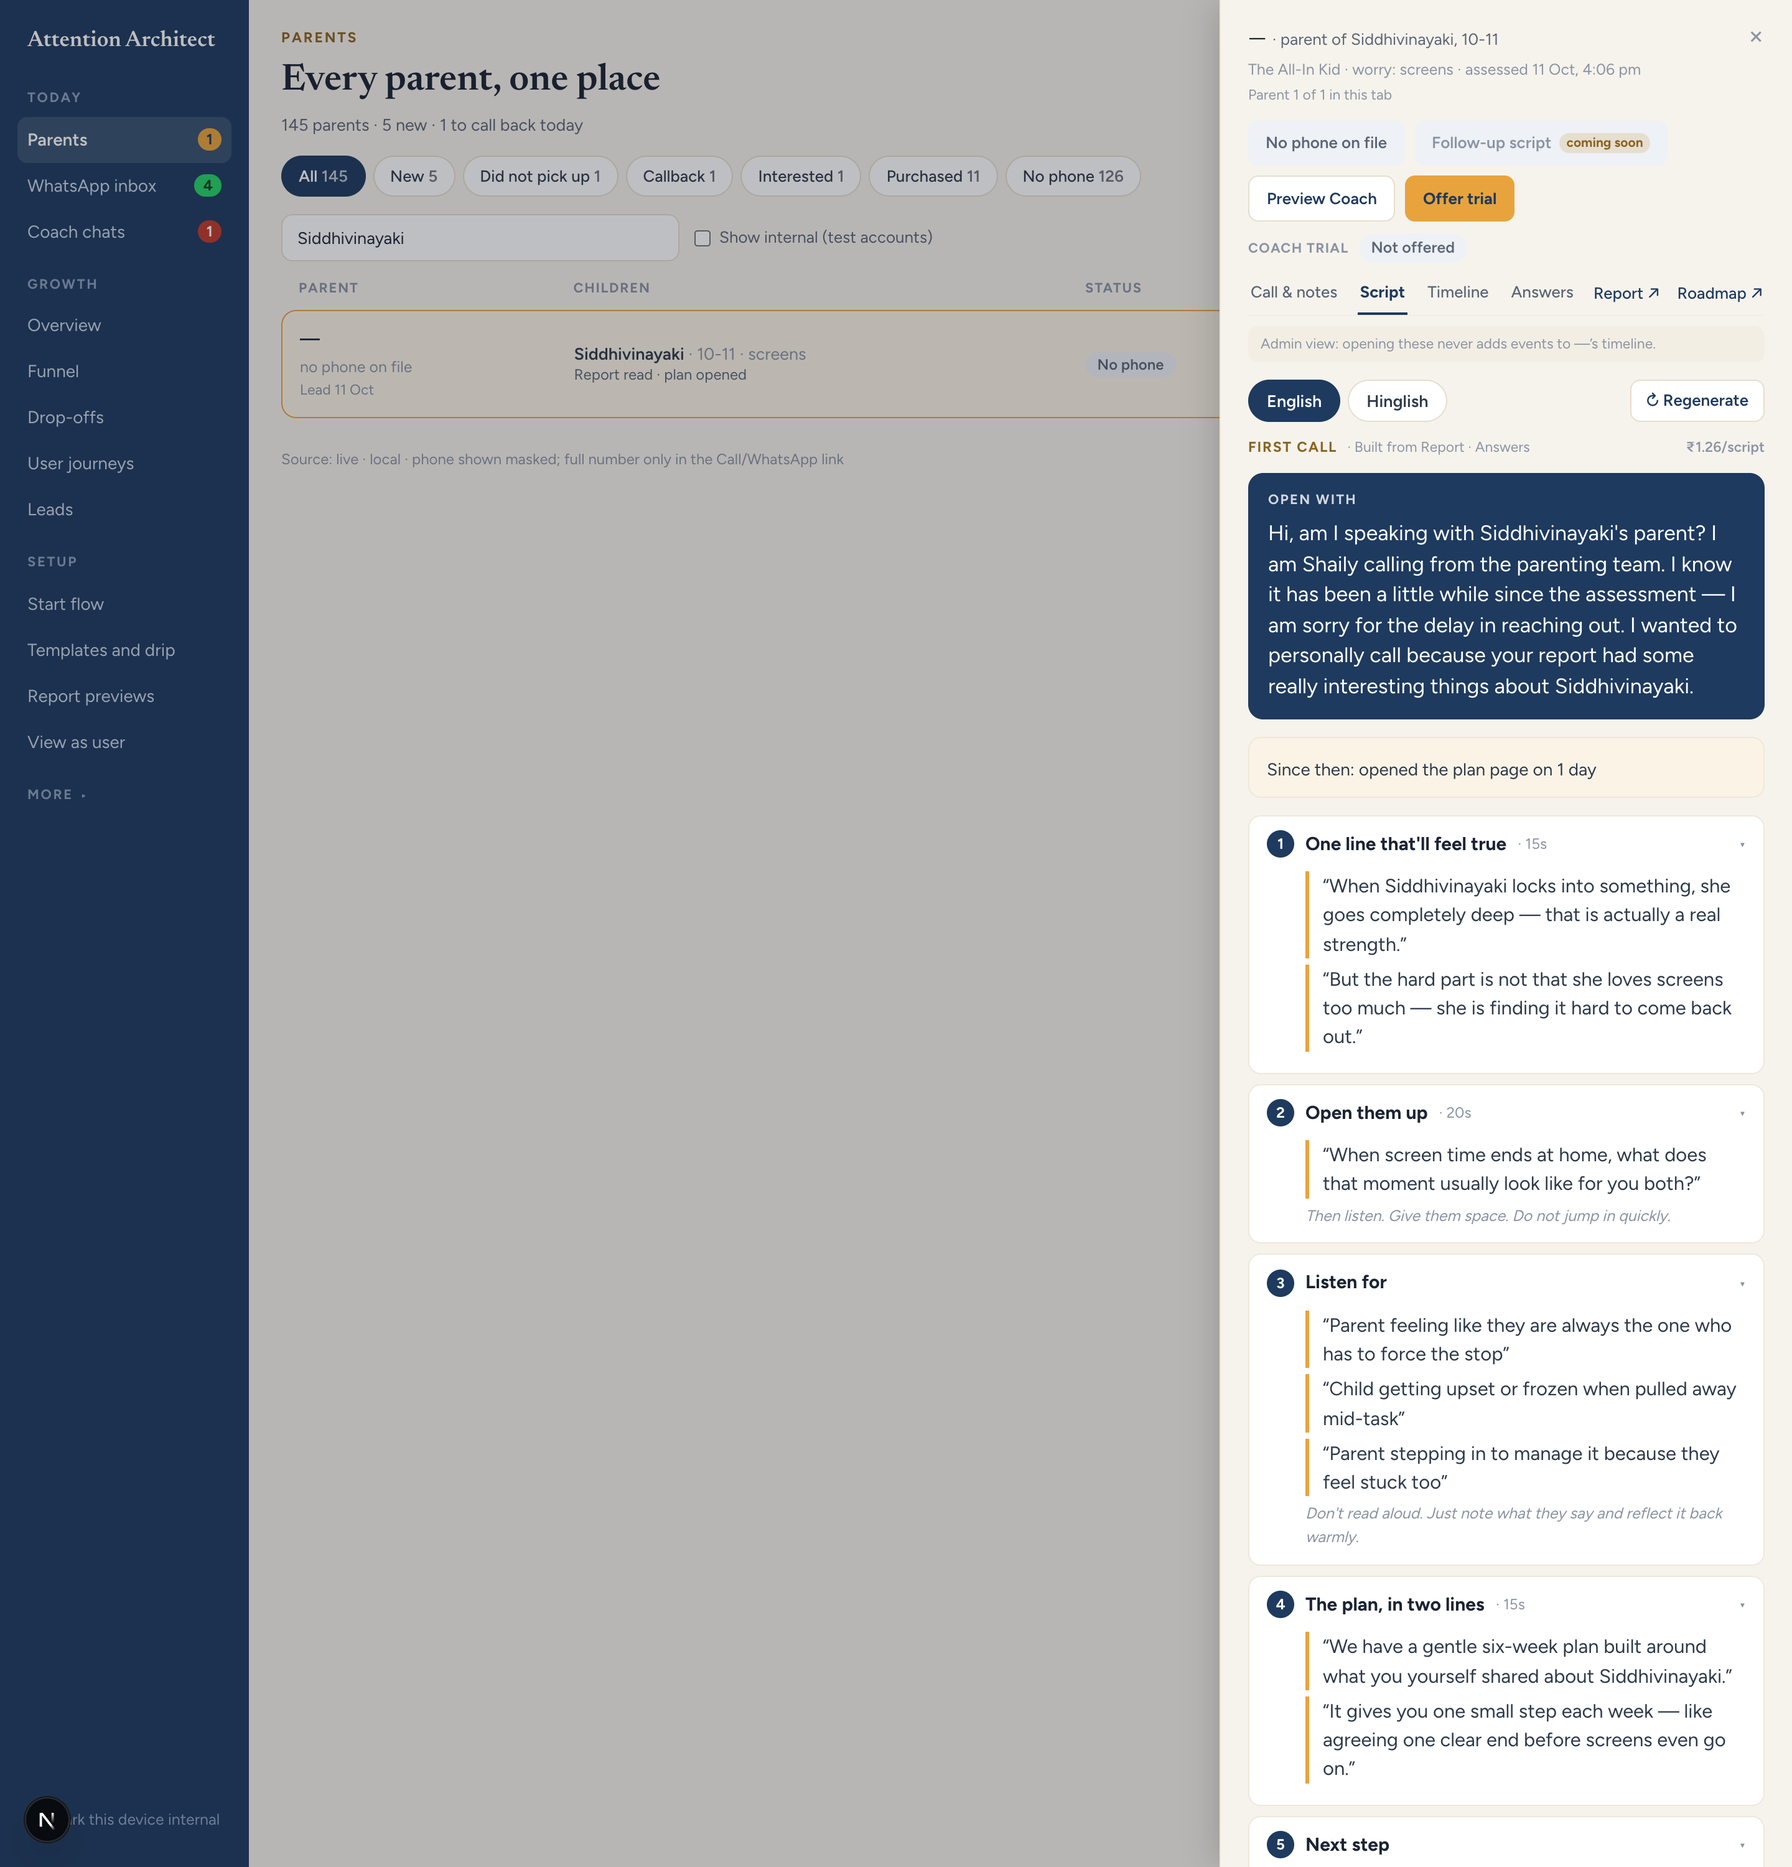
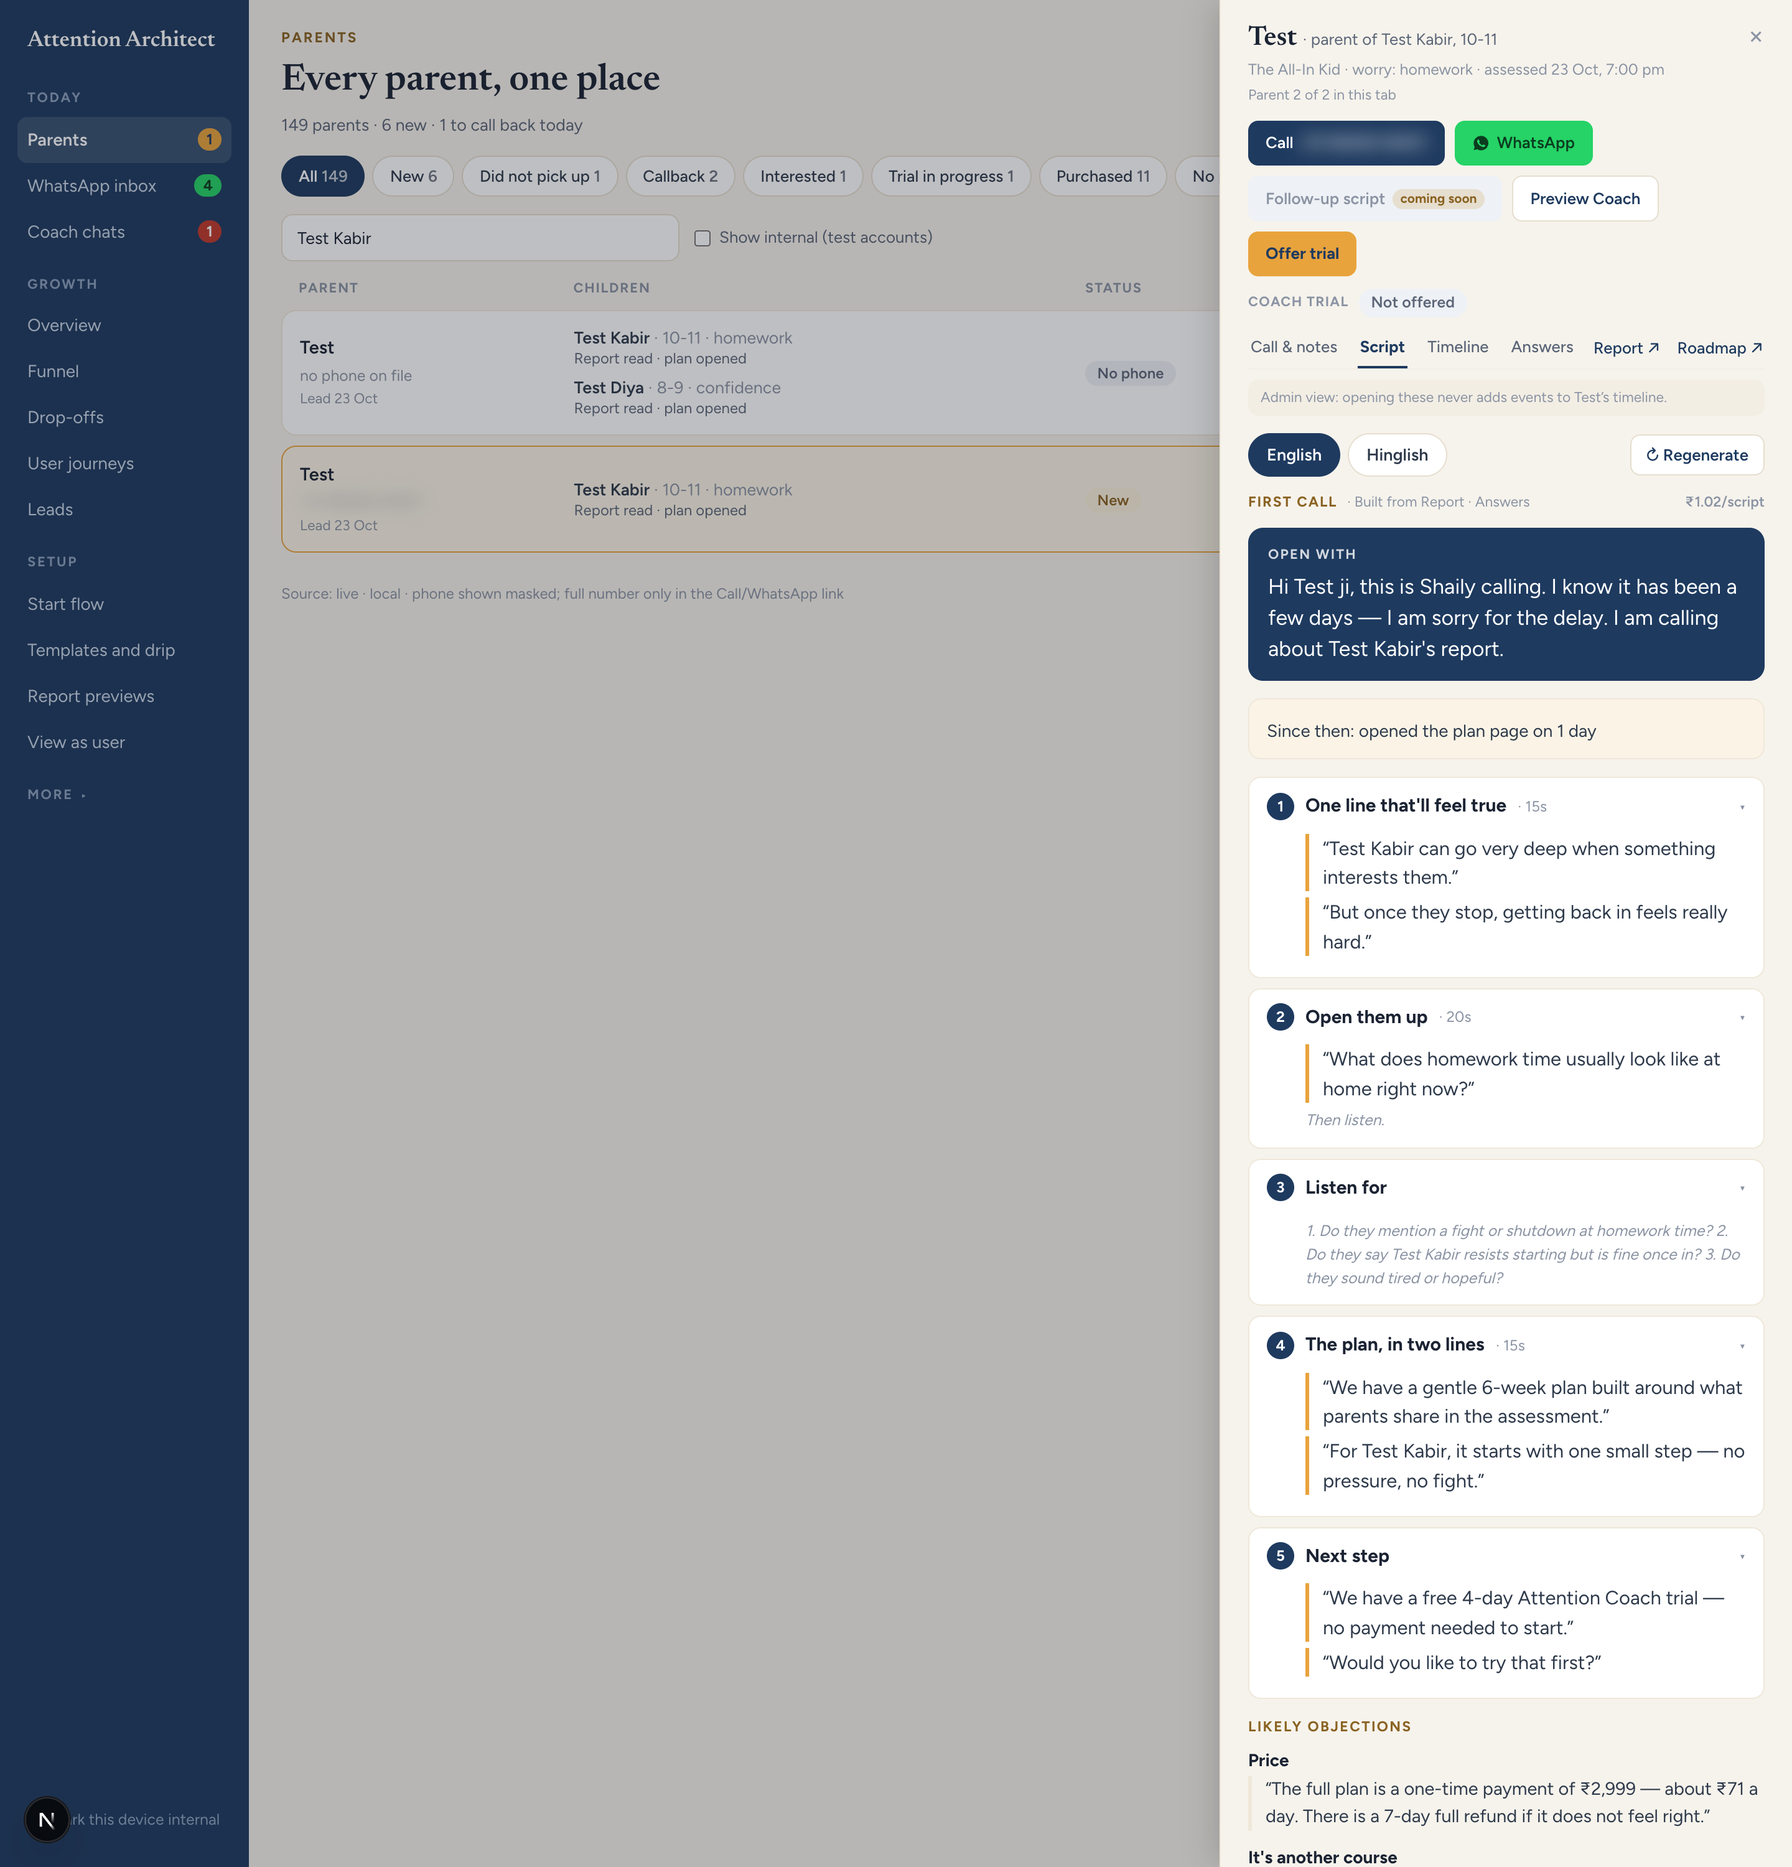
parents-call-script: fallback→0/10 (length at source + in-code repair), Swa trial fix, fake-data screenshots
1. Fallback rate: per-section word budgets in the prompt; "Listen for" is a silent hint; validator
   trims the longest section in code on length overflow; and other safe fixes applied in code with NO
   extra model call — correct call-number, inject child name, scrub an ineligible-trial mention.
   Before: 1/1 fallback (length 244→238). After: 0/10 (scripts 79–140 words; 3 repaired-in-code, shipped LLM).
2. trialEligible: a Preview-Coach trial (is_preview=true) no longer counts as "trialed" (Swa fix);
   exposed in the response; runtime test: preview-only → eligible=true, real trial → false.
3. Screenshots: replaced ALL committed admin screenshots with obviously-fake seeded parents
   (Test Meera/Kabir, Test Ravi/Anaya, Test Priya/Veer, Test Sana + Kabir/Diya). Deleted the old
   dev-dataset ones. New gallery: list, panel, timeline-fake, script first EN/HIN (Shaily),
   follow EN/HIN (Shashank), multi-child, trial-ineligible (no trial offered).

Route retry hardened for the local Neon DNS flake. Dev is NOT a prod copy (confirmed earlier).

diff --git a/lib/call-script/generate.ts b/lib/call-script/generate.ts
@@ -40,20 +40,20 @@ const SYSTEM = (lang: Lang, caller: string, gender: "f" | "m" | "n") => [
   `- Every fact MUST come from the DATA below. Do NOT invent anything about the child, the parent, or the program.`,
   `- NO promises or guarantees. NO clinical or diagnostic words (never say ADHD, disorder, diagnosis, therapy, spectrum, etc.).`,
   `- NO pressure, NO deadlines, NO discounts. Never say "only this week", "hurry", "limited".`,
-  `- BE BRIEF: each "line" is ONE short spoken sentence (about 8–15 words). Never stack two sentences in a line. The whole script's opener + section lines must read aloud in UNDER ONE MINUTE (~150 words total).`,
-  `- The caller reads the "lines"; "hint" is a short silent note to the caller.`,
+  `- BE BRIEF. WORD BUDGET PER PART (hard): opener ≤ 25 words; EACH section's lines total ≤ 20 words; each objection answer ≤ 25 words. One short sentence per line. Never stack two sentences. Staying inside these keeps the whole call under a minute.`,
+  `- The caller reads the "lines"; "hint" is a short silent note to the caller (not read aloud, not counted).`,
 ].join("\n");
 
-function firstCallSchema(): string {
+function firstCallSchema(trialEligible: boolean): string {
   return [
     `Return JSON: {`,
     `  "opener": "<one line: who you are (${"the caller"}), why you're calling — you read their report about the child — said warmly. If the lead is old, gently acknowledge the delay first; never pretend it's fresh.>",`,
     `  "sections": [`,
     `    {"title":"One line that'll feel true","seconds":15,"lines":["<name the child's strength AND the hard moment, from the report — something the parent will recognise>"]},`,
     `    {"title":"Open them up","seconds":20,"lines":["<one question that gets them talking, e.g. What happens at home when …?>"],"hint":"Then listen."},`,
-    `    {"title":"Listen for","lines":["<short thing to listen for>","<another>"],"hint":"Don't read aloud."},`,
+    `    {"title":"Listen for","lines":[],"hint":"<2–3 short things to listen for — a silent note, NOT read aloud>"},`,
     `    {"title":"The plan, in two lines","seconds":15,"lines":["<what the 6-week plan is, plainly>","<how it fits this child>"]},`,
-    `    {"title":"Next step","lines":["<offer the free trial IF eligible, else the roadmap link or a callback>"]}`,
+    `    {"title":"Next step","lines":["${trialEligible ? "<offer the free 4-day Coach trial — no payment>" : "<send the roadmap link or set a callback. NOT eligible for a trial — do NOT mention any trial, free or paid>"}"]}`,
     `  ],`,
     `  "objections": [`,
     `    {"label":"Price","answer":"<answer using ONLY the allowed commercial facts>"},`,
@@ -64,7 +64,7 @@ function firstCallSchema(): string {
   ].join("\n");
 }
 
-function followupSchema(priorCallNo: number): string {
+function followupSchema(priorCallNo: number, trialEligible: boolean): string {
   return [
     `Return JSON: {`,
     `  "leftOff": "Where you left off (call ${priorCallNo}, <date>): <last outcome + the gist of the last note, from DATA>",`,
@@ -73,7 +73,7 @@ function followupSchema(priorCallNo: number): string {
     `  "sections": [`,
     `    {"title":"Check the step you gave","seconds":30,"lines":["<ask about the specific next step from last call: did you get a chance to … what happened?>"],"hint":"Worked → go to next step. Didn't → ‘that's useful, tell me what happened.’"},`,
     `    {"title":"Next step you planned","lines":["<the next step from the last call's notes/next steps>"]},`,
-    `    {"title":"Close","lines":["<offer the trial link if eligible, or set the next callback — no pressure>"]}`,
+    `    {"title":"Close","lines":["${trialEligible ? "<offer the free trial link, or set the next callback — no pressure>" : "<set the next callback or offer to send the roadmap. NOT eligible for a trial — do NOT mention any trial>"}"]}`,
     `  ],`,
     `  "objections": [ {"label":"<the objection from the notes, if any>","answer":"<answer with allowed facts only>"} ]`,
     `}`,
@@ -105,7 +105,7 @@ function buildPrompt(i: GenerateInput): string {
   lines.push(``);
   lines.push(pricingPromptBlock(i.trialEligible));
   lines.push(``);
-  lines.push(i.kind === "first" ? firstCallSchema() : followupSchema(i.callNo - 1));
+  lines.push(i.kind === "first" ? firstCallSchema(i.trialEligible) : followupSchema(i.callNo - 1, i.trialEligible));
   return lines.join("\n");
 }
 
@@ -137,6 +137,49 @@ function shape(i: GenerateInput, obj: Record<string, unknown>): CallScript {
 function vctx(i: GenerateInput) {
   return { callNo: i.callNo, trialEligible: i.trialEligible, callerGender: i.callerGender, childNames: [i.child], banNames: i.banNames };
 }
+// Spoken = what's read aloud in sequence (opener + section lines); the minute budget applies to this.
+function spokenWords(s: CallScript): number {
+  return [s.opener, ...s.sections.flatMap((x) => x.lines)].join(" ").trim().split(/\s+/).filter(Boolean).length;
+}
+// Length is the only "failure" that's safe to fix WITHOUT another model call: trim extra lines from the
+// wordiest multi-line section until it fits. Keeps ≥1 line per section (the key sentence).
+function trimToFit(s: CallScript, budget = 225): CallScript {
+  const c: CallScript = JSON.parse(JSON.stringify(s));
+  while (spokenWords(c) > budget) {
+    let idx = -1, max = 0;
+    c.sections.forEach((sec, i) => { if (sec.lines.length > 1) { const w = sec.lines.join(" ").split(/\s+/).length; if (w > max) { max = w; idx = i; } } });
+    if (idx === -1) break; // nothing left to trim
+    c.sections[idx].lines.pop();
+  }
+  return c;
+}
+// For an ineligible parent, replace any trial-mentioning line with the roadmap line — in code, no model
+// call (the model occasionally offers a trial despite the instruction).
+const TRIAL_RE = /\b(trial|free 4-day|4-din|4 din|free coach|muft)\b/i;
+function scrubTrial(s: CallScript, i: GenerateInput): CallScript {
+  const hin = s.lang === "hinglish";
+  const det = i.callerGender === "f" ? "deti hoon" : i.callerGender === "m" ? "deta hoon" : "dete hain";
+  const roadmap = hin ? `Main aapko ${i.child} ka roadmap bhej ${det} dekhne ke liye.` : `I can send you ${i.child}'s roadmap to look at.`;
+  const c: CallScript = JSON.parse(JSON.stringify(s));
+  const drop = (t?: string) => (t && TRIAL_RE.test(t) ? "" : t);
+  if (TRIAL_RE.test(c.opener)) c.opener = roadmap;
+  c.leftOff = drop(c.leftOff); c.since = drop(c.since);
+  c.sections.forEach((sec) => { sec.lines = sec.lines.map((l) => (TRIAL_RE.test(l) ? roadmap : l)); });
+  c.objections.forEach((o) => { if (TRIAL_RE.test(o.answer)) o.answer = roadmap; });
+  return c;
+}
+// All safe in-code repairs for a failed draft — never a model call. Only genuinely unsafe content
+// (promise/clinical/pressure the model invented) is left to one retry, then the deterministic fallback.
+function repairScript(s: CallScript, i: GenerateInput, fails: string[]): CallScript {
+  let c: CallScript = JSON.parse(JSON.stringify(s));
+  if (fails.some((f) => f.startsWith("too long"))) c = trimToFit(c);
+  if (!i.trialEligible && fails.some((f) => /trial mentioned/.test(f))) c = scrubTrial(c, i);
+  if (fails.some((f) => /wrong call number/.test(f)) && c.leftOff) c.leftOff = c.leftOff.replace(/call\s+\d+/i, `call ${i.callNo - 1}`);
+  if (fails.some((f) => /does not name the real child/.test(f)) && !new RegExp(i.child, "i").test(c.opener + (c.leftOff ?? ""))) {
+    c.opener = c.opener.replace(/\s*$/, "") + ` It's about ${i.child}.`;
+  }
+  return c;
+}
 // All call-script LLM spend is logged under one feature tag so it can be grepped/aggregated.
 function logSpend(i: GenerateInput, inTok: number, outTok: number, outcome: string) {
   console.log(`[spend] feature=call_script kind=${i.kind} lang=${i.lang} callNo=${i.callNo} in=${inTok} out=${outTok} paise=${reportCostPaise(inTok, outTok)} outcome=${outcome}`);
@@ -159,8 +202,15 @@ export async function generateCallScript(i: GenerateInput): Promise<ScriptResult
       try { script = shape(i, parseJson(text)); } catch { if (attempt === 0) continue; throw new Error("bad_json"); }
       const v = validateScript(script, ctx);
       if (v.ok) { logSpend(i, inTok, outTok, "ok"); return { script, source: "llm", model: MODEL, inTok, outTok, costPaise: reportCostPaise(inTok, outTok), outcome: "ok", reason: null }; }
+      // Safe in-code repairs (NO extra model call): length, ineligible-trial, call-no, child-name.
+      const repaired = repairScript(script, i, v.fails);
+      if (validateScript(repaired, ctx).ok) {
+        console.log(`[call_script] repaired in code (${v.fails.join("; ")}) — shipping`);
+        logSpend(i, inTok, outTok, "ok");
+        return { script: repaired, source: "llm", model: MODEL, inTok, outTok, costPaise: reportCostPaise(inTok, outTok), outcome: "ok", reason: "repaired in code" };
+      }
       console.log(`[call_script] validator caught: ${v.fails.join("; ")} — attempt ${attempt + 1}${attempt === 0 ? ", retrying" : ", falling back"}`);
-      if (attempt === 0) continue; // one retry, then fall back
+      if (attempt === 0) continue; // one retry for anything in-code repair couldn't fix, then fall back
       logSpend(i, inTok, outTok, "validator_fail");
       return { script: fallbackScript(i), source: "fallback", model: MODEL, inTok, outTok, costPaise: reportCostPaise(inTok, outTok), outcome: "validator_fail", reason: v.fails.join("; ") };
     }

diff --git a/app/api/admin/parents/script/route.ts b/app/api/admin/parents/script/route.ts
@@ -11,9 +11,9 @@ import type { Lang } from "@/lib/call-script/types";
 export const dynamic = "force-dynamic";
 const UUID_RE = /^[0-9a-f]{8}-[0-9a-f]{4}-[0-9a-f]{4}-[0-9a-f]{4}-[0-9a-f]{12}$/i;
 
-async function withRetry<T>(fn: () => Promise<T>, tries = 6): Promise<T> {
+async function withRetry<T>(fn: () => Promise<T>, tries = 12): Promise<T> {
   let last: unknown;
-  for (let i = 0; i < tries; i++) { try { return await fn(); } catch (e) { last = e; await new Promise((r) => setTimeout(r, 300 * (i + 1))); } }
+  for (let i = 0; i < tries; i++) { try { return await fn(); } catch (e) { last = e; await new Promise((r) => setTimeout(r, Math.min(300 * (i + 1), 2500))); } }
   throw last;
 }
 
@@ -75,7 +75,9 @@ async function buildContext(sessionId: string, lang: Lang, callerName: string, c
 
   // trial eligibility + "since" journey.
   const paid = ((await sql`SELECT 1 FROM purchases WHERE assessment_id = ANY(${ids}::uuid[]) AND status='paid' LIMIT 1`) as unknown as unknown[]).length > 0;
-  const trialed = ((await sql`SELECT 1 FROM coach_trials WHERE session_id = ${sessionId}::uuid LIMIT 1`) as unknown as unknown[]).length > 0;
+  // A Preview-Coach sandbox trial (is_preview=true) does NOT count as "trialed" — only a REAL trial
+  // makes the parent ineligible for the free offer (matches the Swa fix).
+  const trialed = ((await sql`SELECT 1 FROM coach_trials WHERE session_id = ${sessionId}::uuid AND is_preview = false LIMIT 1`) as unknown as unknown[]).length > 0;
   const sinceAnchor = calls[0]?.created_at ?? a.created_at;
   const planDays = (await sql`
     SELECT count(DISTINCT (fe.created_at AT TIME ZONE 'Asia/Kolkata')::date)::int c
@@ -99,7 +101,7 @@ async function buildContext(sessionId: string, lang: Lang, callerName: string, c
     since, trialEligible: !paid && !trialed,
   };
   const latestActivity = [sinceAnchor, ...(planDays[0]?.c ? [new Date().toISOString()] : [])].sort().pop()!;
-  return { input, pkey, assessmentId: a.id, callNo, kind, latestCallAt: calls[0]?.created_at ?? null, latestActivity };
+  return { input, pkey, assessmentId: a.id, callNo, kind, trialEligible: input.trialEligible, latestCallAt: calls[0]?.created_at ?? null, latestActivity };
 }
 
 async function handle(req: NextRequest, regenerate: boolean) {
@@ -122,7 +124,7 @@ async function handle(req: NextRequest, regenerate: boolean) {
   if (cached[0] && !regenerate) {
     const since = +new Date(cached[0].created_at);
     const stale = !!((ctx.latestCallAt && +new Date(ctx.latestCallAt) > since) || (reportAt && +new Date(reportAt) > since));
-    return NextResponse.json({ script: cached[0].script, source: cached[0].source, model: cached[0].model, costPaise: cached[0].cost_paise, cachedAt: cached[0].created_at, stale, callNo: ctx.callNo, kind: ctx.kind });
+    return NextResponse.json({ script: cached[0].script, source: cached[0].source, model: cached[0].model, costPaise: cached[0].cost_paise, cachedAt: cached[0].created_at, stale, callNo: ctx.callNo, kind: ctx.kind, trialEligible: ctx.trialEligible });
   }
 
   const r = await generateCallScript(ctx.input);
@@ -133,7 +135,7 @@ async function handle(req: NextRequest, regenerate: boolean) {
       script=EXCLUDED.script, source=EXCLUDED.source, model=EXCLUDED.model, input_tokens=EXCLUDED.input_tokens,
       output_tokens=EXCLUDED.output_tokens, cost_paise=EXCLUDED.cost_paise, outcome=EXCLUDED.outcome, reason=EXCLUDED.reason, updated_at=now(), created_at=now()
   `);
-  return NextResponse.json({ script: r.script, source: r.source, model: r.model, costPaise: r.costPaise, cachedAt: new Date().toISOString(), stale: false, callNo: ctx.callNo, kind: ctx.kind });
+  return NextResponse.json({ script: r.script, source: r.source, model: r.model, costPaise: r.costPaise, cachedAt: new Date().toISOString(), stale: false, callNo: ctx.callNo, kind: ctx.kind, trialEligible: ctx.trialEligible });
 }
 
 export async function GET(req: NextRequest) {
